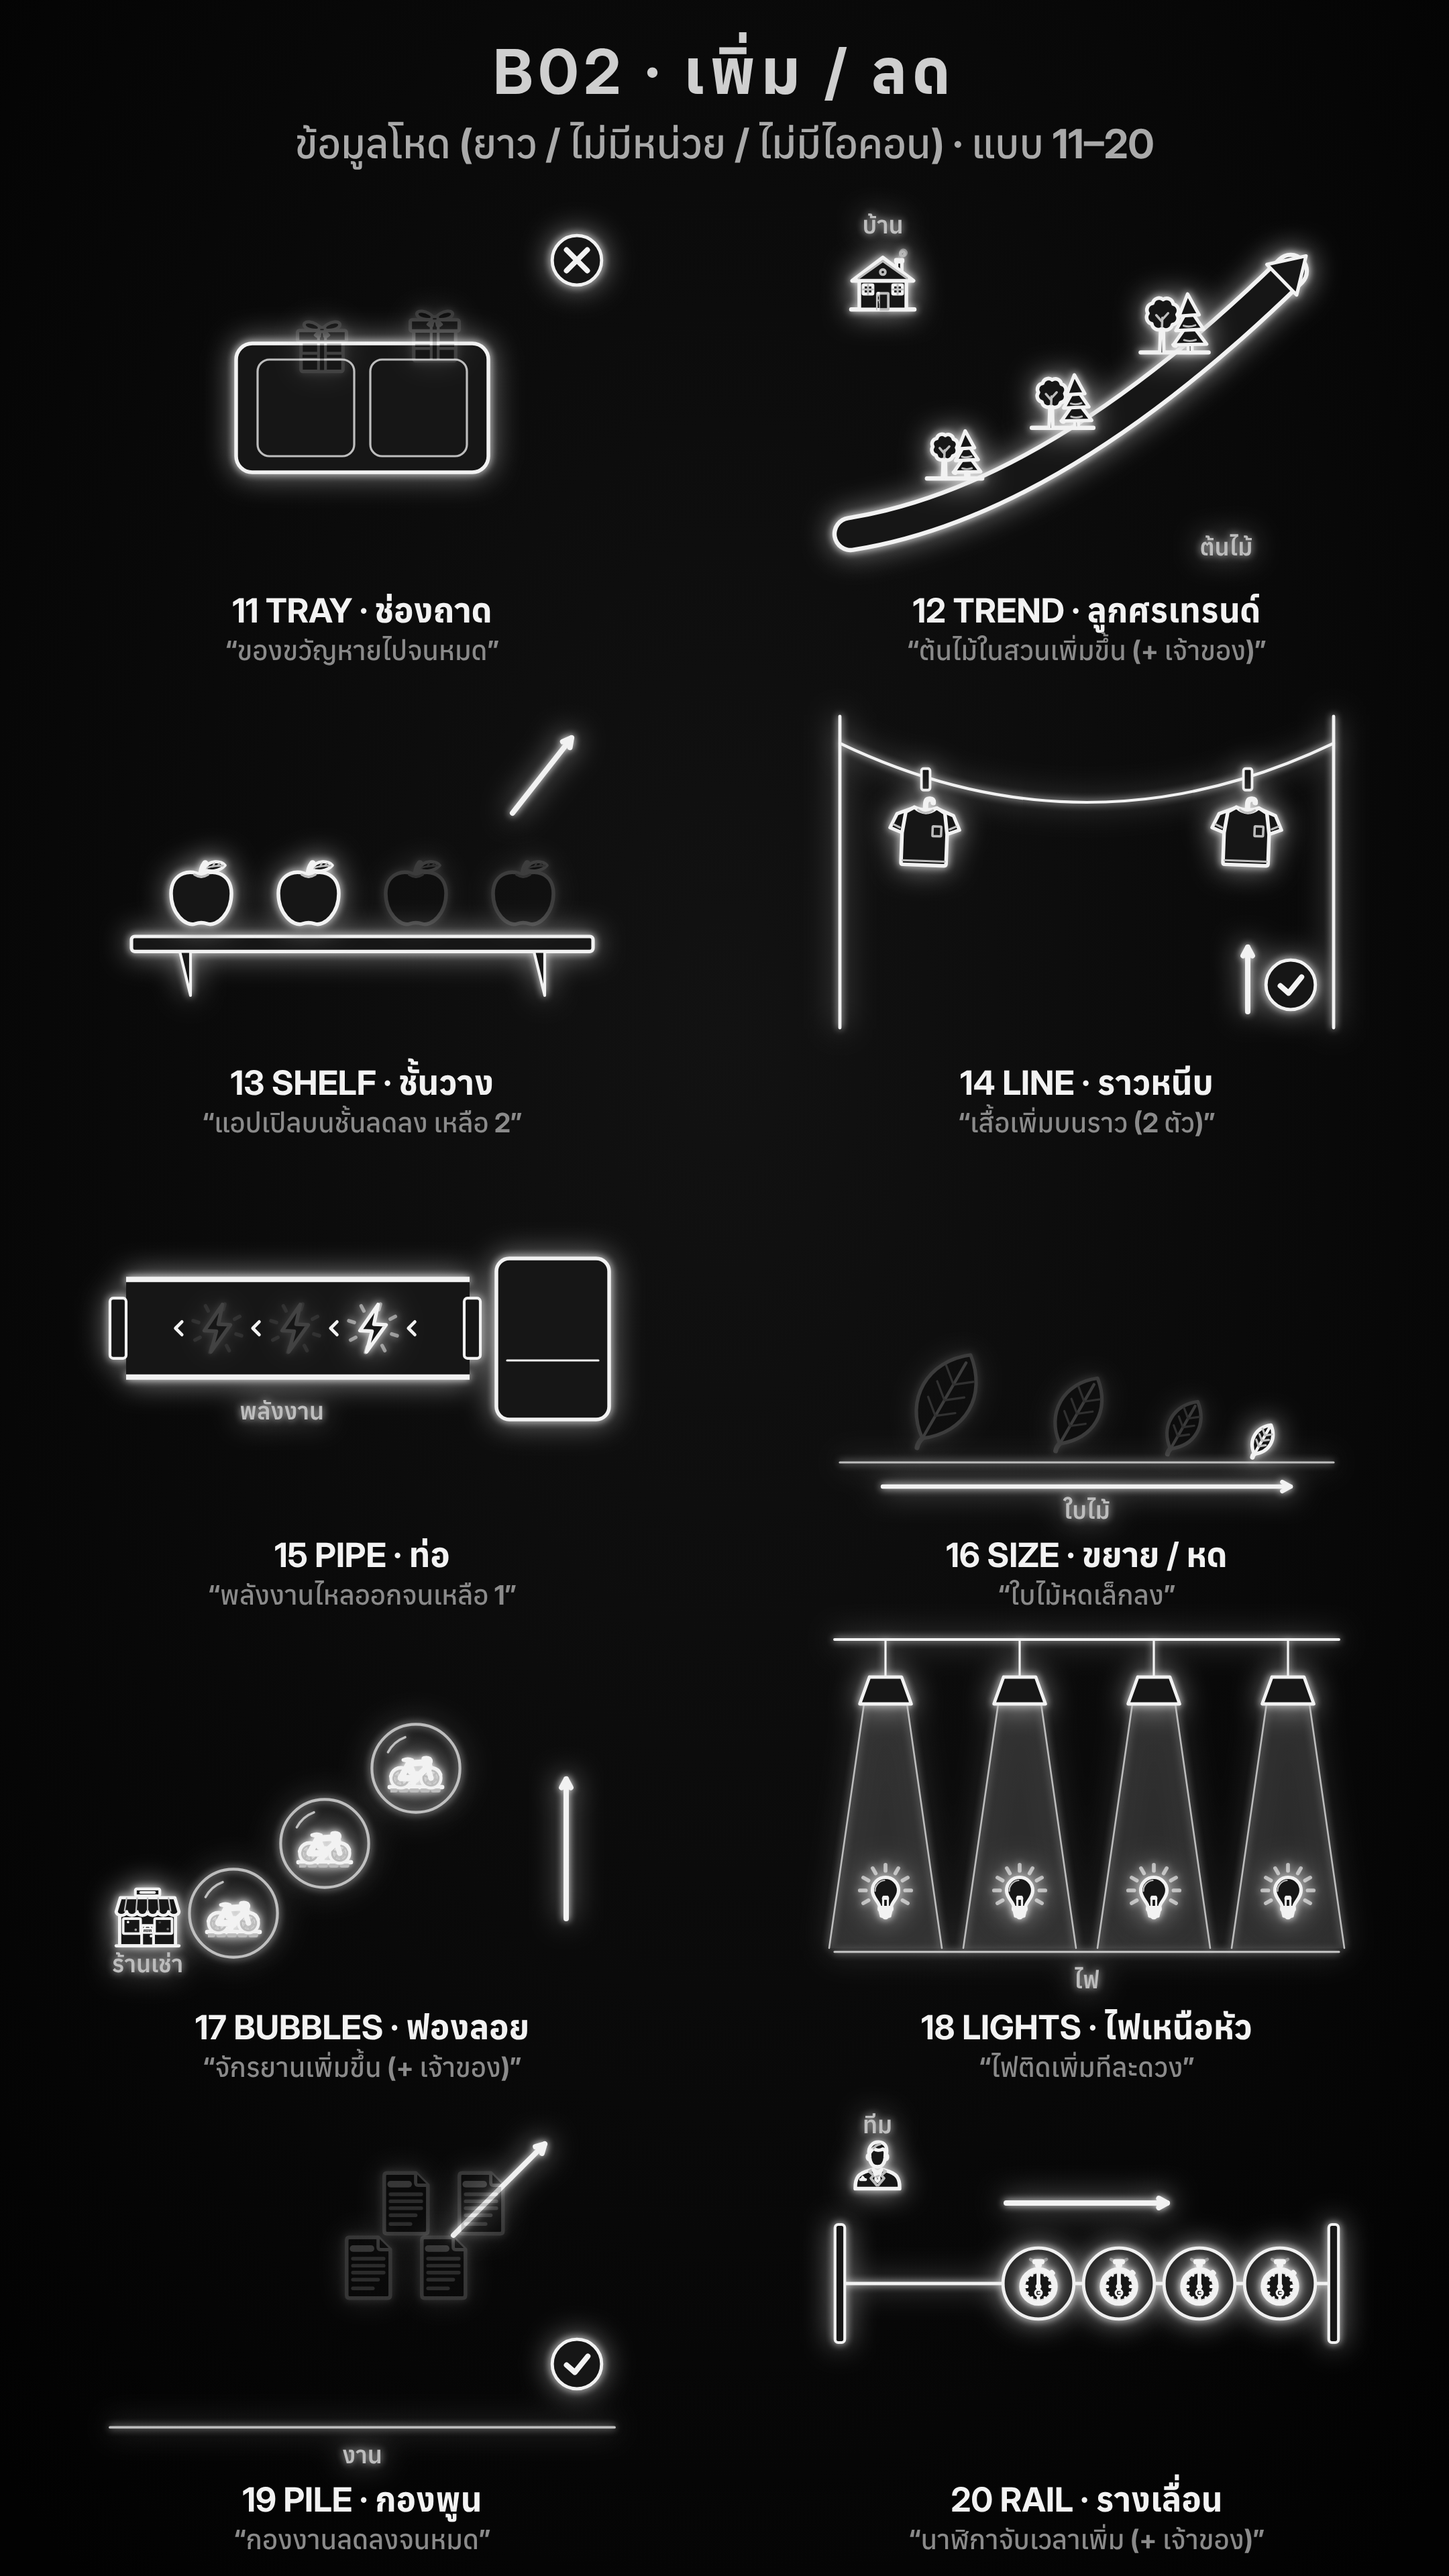
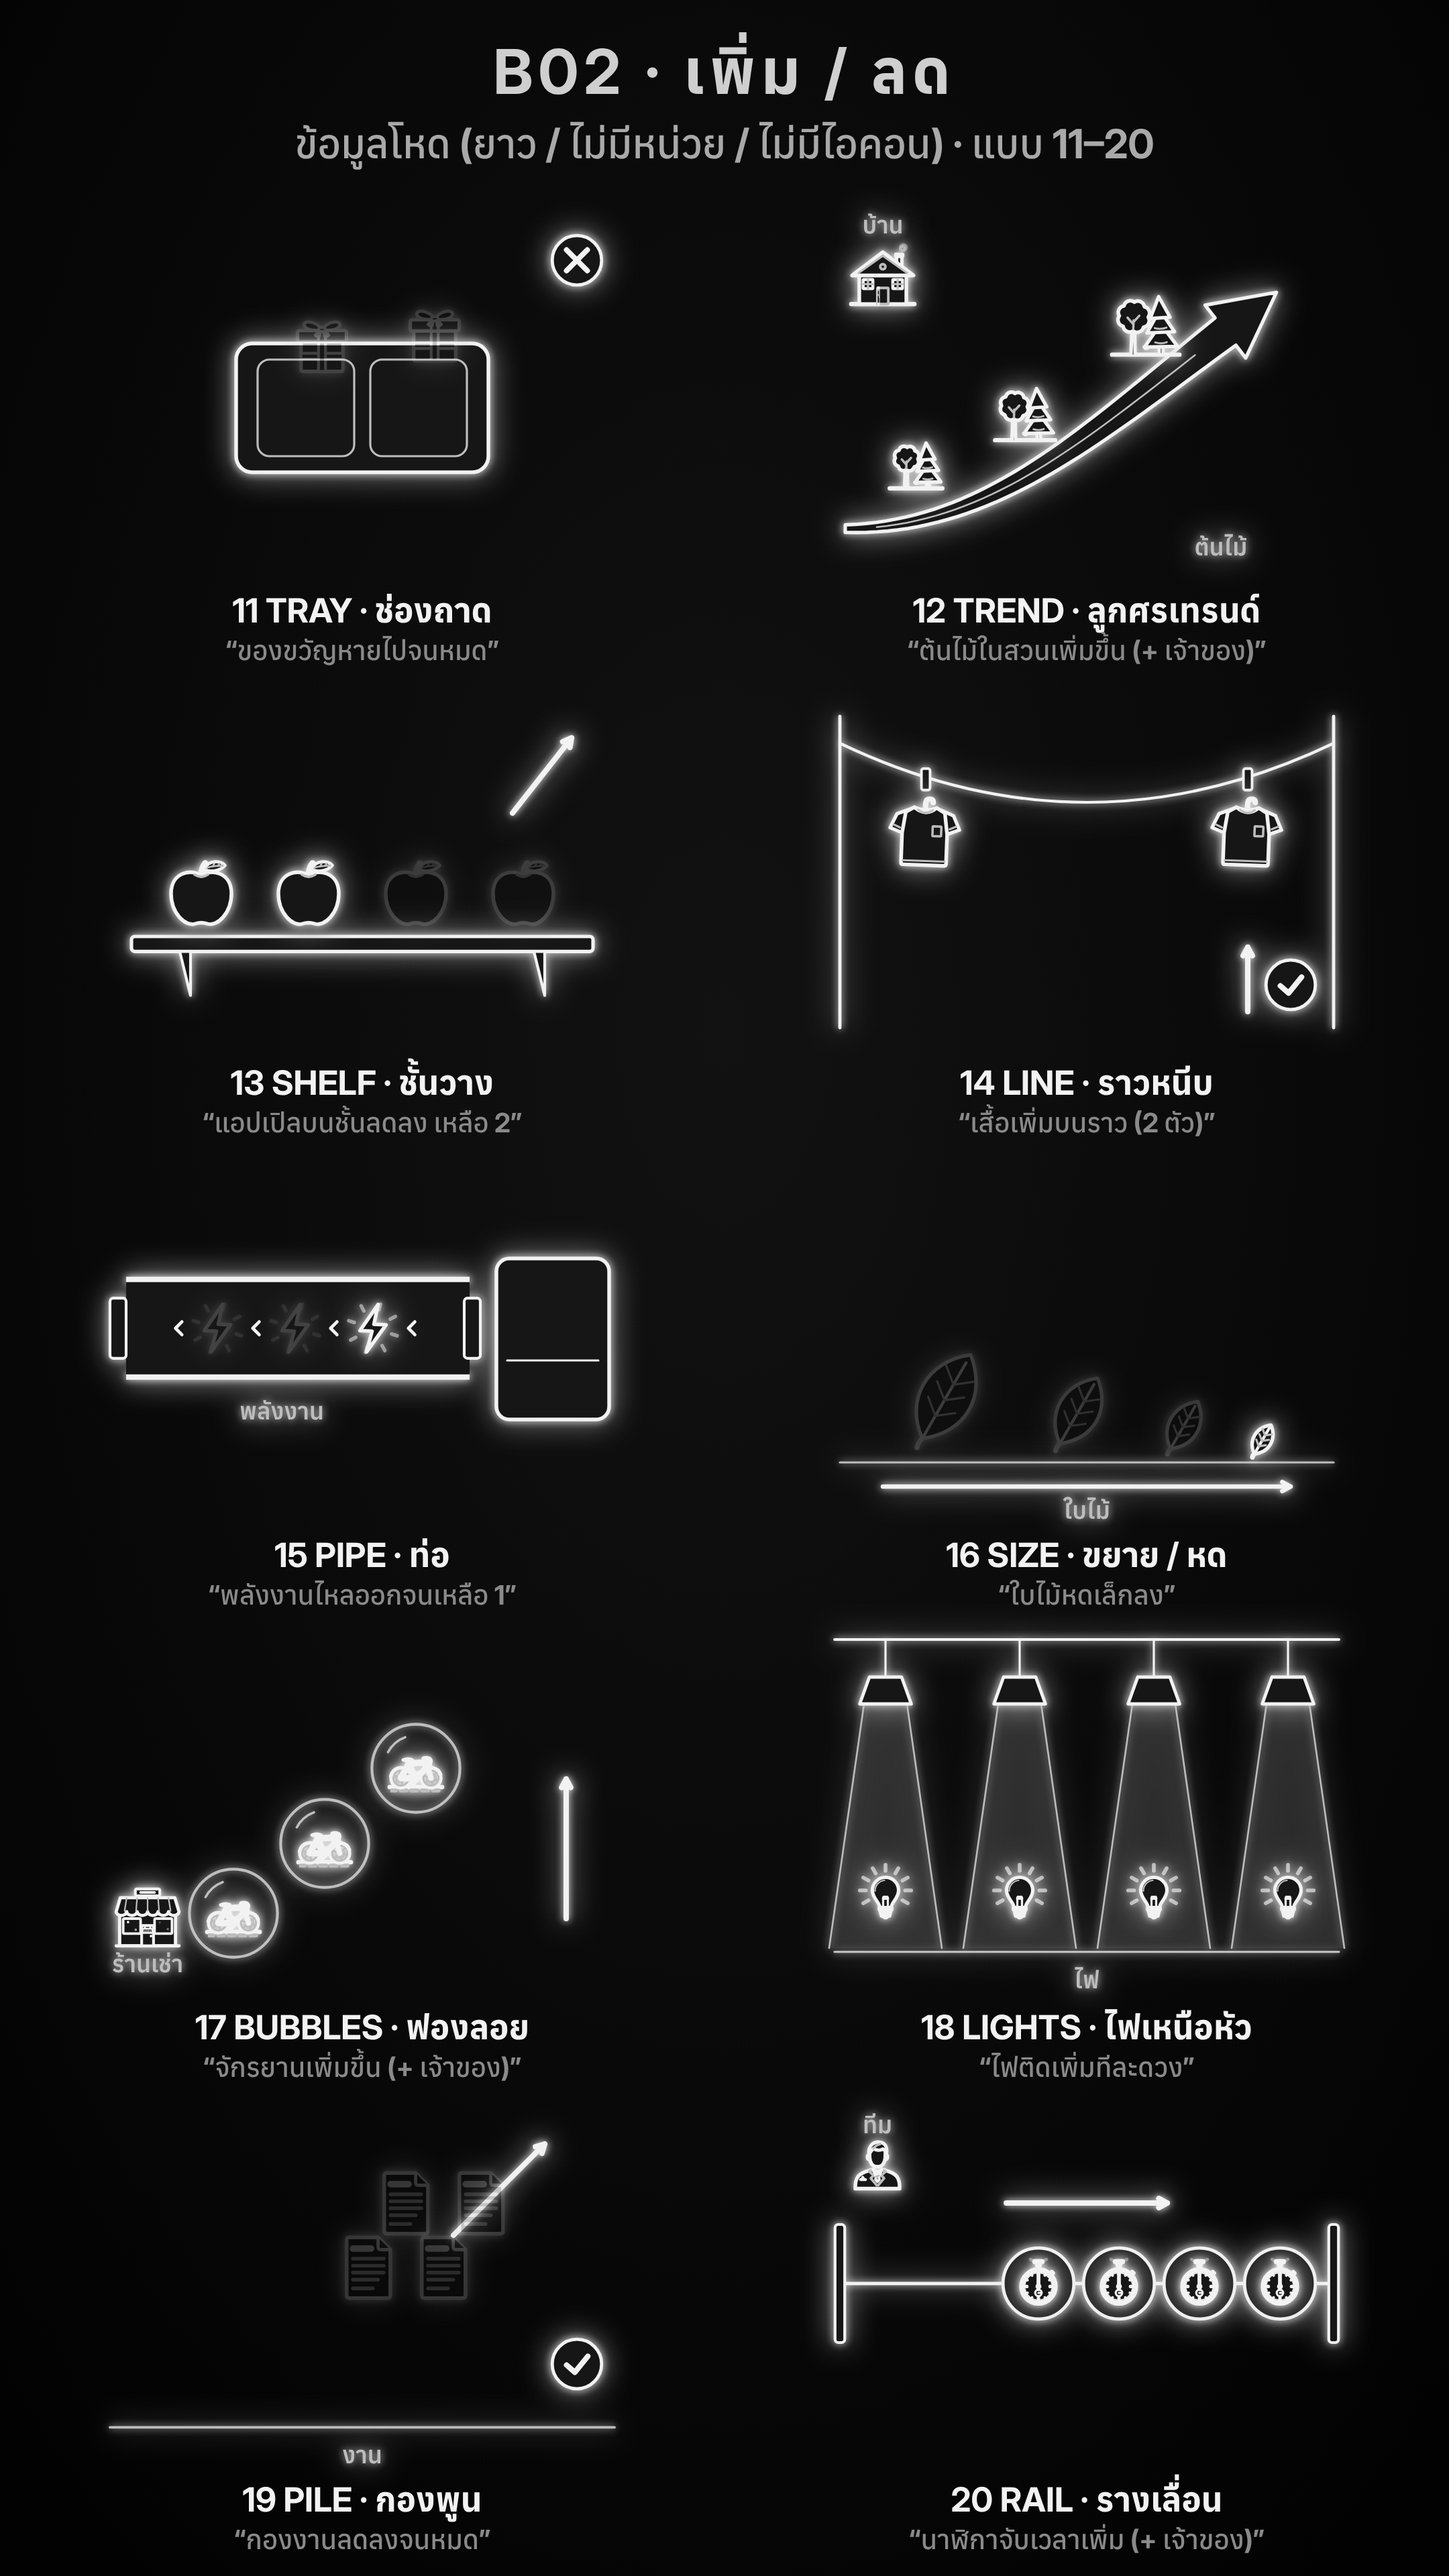
glow-line-motion: B02 design 12 — tapered S-curve trend arrow
Claude-Session: https://claude.ai/code/session_01S8EfU7fAEGeBWyNc1CqSTP

Changed region(s): [[0.5583, 0.0938, 0.9306, 0.2188], [0.5894, 0.0938, 0.6514, 0.125], [0.8375, 0.1875, 0.8685, 0.2188]]

diff --git a/.claude/skills/glow-line-motion/examples/b02/b02.js b/.claude/skills/glow-line-motion/examples/b02/b02.js
@@ -223,21 +223,27 @@
     center(d, -390, 25, 130, c);
   });
 
-  /* 12 ── TREND: a big curved arrow climbs (or falls); the copies ride along it */
+  /* 12 ── TREND: a big tapered arrow sweeps up (or down) in a soft S — thin at its tail, wide at its head; the copies ride along it */
   variant('trend', 'ลูกศรเทรนด์', (d, c) => {
-    const n = N(d), up = d.dir === 'up';
-    const P0 = up ? [-440, 260] : [-440, -240], P1 = [-60, up ? 200 : -180], P2 = up ? [380, -230] : [380, 240];
-    const B = t => [(1 - t) ** 2 * P0[0] + 2 * (1 - t) * t * P1[0] + t * t * P2[0], (1 - t) ** 2 * P0[1] + 2 * (1 - t) * t * P1[1] + t * t * P2[1]];
+    const n = N(d), up = d.dir === 'up', fy = y => up ? y : -y + 20;
+    const P = [[-450, fy(250)], [-140, fy(250)], [60, fy(20)], [390, fy(-215)]];
+    const B = t => { const u = 1 - t; return [0, 1].map(k => u * u * u * P[0][k] + 3 * u * u * t * P[1][k] + 3 * u * t * t * P[2][k] + t * t * t * P[3][k]); };
+    const D = t => { const u = 1 - t; return [0, 1].map(k => 3 * u * u * (P[1][k] - P[0][k]) + 6 * u * t * (P[2][k] - P[1][k]) + 3 * t * t * (P[3][k] - P[2][k])); };
     art(c, p => {
-      const D = `M ${P0[0]} ${P0[1]} Q ${P1[0]} ${P1[1]} ${P2[0]} ${P2[1]}`;
-      p.path(D, { sw: 34 }); p.path(D, { sw: 26, stroke: C.fill });
-      const a = Math.atan2(P2[1] - P1[1], P2[0] - P1[0]), hx = P2[0] + 40 * Math.cos(a), hy = P2[1] + 40 * Math.sin(a);
-      p.shape([[f1(hx), f1(hy)], [f1(P2[0] + 46 * Math.cos(a + 2.1)), f1(P2[1] + 46 * Math.sin(a + 2.1))], [f1(P2[0] + 46 * Math.cos(a - 2.1)), f1(P2[1] + 46 * Math.sin(a - 2.1))]], F(3.2));
-      labels(p, d, up ? 260 : -260, up ? 300 : 300, up ? -380 : 380, -300);
-      endSym(p, d, up ? 420 : 420, up ? 80 : -120, c);
+      const tH = .86, L = [], R = [], M = [];
+      for (let k = 0; k <= 40; k++) { const t = tH * k / 40, [x, y] = B(t), [dx, dy] = D(t), l = Math.hypot(dx, dy), nx = -dy / l, ny = dx / l, w = 7 + 25 * (t / tH);
+        L.push([f1(x + nx * w), f1(y + ny * w)]); R.push([f1(x - nx * w), f1(y - ny * w)]); if (k > 2 && k < 38) M.push([f1(x), f1(y)]); }
+      const [hx, hy] = B(tH), [tx, ty] = D(tH), tl = Math.hypot(tx, ty), ux = tx / tl, uy = ty / tl, nx = -uy, ny = ux, hw = 62, hl = 120;
+      const tip = [f1(hx + ux * hl), f1(hy + uy * hl)];
+      p.shape([...L, [f1(hx + nx * hw), f1(hy + ny * hw)], tip, [f1(hx - nx * hw), f1(hy - ny * hw)], ...R.reverse()], F(3.2));
+      p.poly(M, { sw: 1.6, stroke: C.soft });
+      labels(p, d, up ? 250 : -250, 300, up ? -380 : 380, up ? -300 : 330);
+      endSym(p, d, up ? 420 : 420, up ? 60 : -60, c);
     });
-    for (let i = 0; i < n; i++) { const [x, y] = B((i + 1) / (n + 1)); item(d, i, x, y - 95, 105 + (up ? i * 12 : (n - 1 - i) * 12), c); }
-    center(d, up ? -380 : 380, up ? -210 : -210, 120, c);
+    for (let i = 0; i < n; i++) { const t = .18 + .58 * i / (n - 1), [x, y] = B(t), [dx, dy] = D(t), l = Math.hypot(dx, dy);
+      let nx = -dy / l, ny = dx / l; if (ny > 0) { nx = -nx; ny = -ny; }              // always ride on the upper side of the arrow
+      item(d, i, x + nx * 100, y + ny * 100, 100 + (up ? i * 14 : (n - 1 - i) * 14), c); }
+    center(d, up ? -380 : 380, up ? -220 : 250, 120, c);
   });
 
   /* 13 ── SHELF: copies stand on a wall shelf — a new one is set down (or the gaps show the ones taken) */

diff --git a/.claude/skills/glow-line-motion/HANDOFF.md b/.claude/skills/glow-line-motion/HANDOFF.md
@@ -61,6 +61,8 @@
 - 20 แบบ: row แถวเรียง · stack กองซ้อน · jar โหลแก้ว · flow ไหลเข้าศูนย์กลาง · conveyor สายพาน · stairs บันได · lift ลิฟต์ยก · scale ตาชั่งหน้าปัด ·
   magnet แม่เหล็ก · door ประตูเข้าออก · tray ช่องถาด · trend ลูกศรเทรนด์ · shelf ชั้นวาง · line ราวหนีบ · pipe ท่อ · size ขยาย/หด · bubbles ฟองลอย ·
   lights ไฟเหนือหัว · pile กองพูน · rail รางเลื่อน. (ไม่ใช้: เก้าอี้ — CutPack DECISIONS เคยลบ "เก้าอี้จอง"; ตะกร้า/รถเข็น — ผูกเรื่องช้อปปิ้ง.)
+- ผู้ใช้: **"ทำเส้นเทรนของอันที่ 12 ให้มันดีๆหน่อย"** → trend วาดใหม่: ลูกศรเรียวโค้ง S (cubic) เรียวที่หาง หนาที่หัว (polygon จาก offset ของเส้นโค้ง),
+  หัวลูกศรต่อตามทิศโค้ง, เส้นกลางบางสีเทาในตัว; ของลอยด้านบนเส้นเสมอ (ทั้งขึ้นและลง). ภาพ `b02-12-trend.png` (4 กรณี). รอผู้ใช้ตอบ.
 - ถัดไป: ผู้ใช้เลือก → แทนแบบที่ไม่ชอบด้วยตัวเลือก 3 ทาง (เหมือน B01) → ผ่านแล้วใส่ท่า (ของทยอยเข้า/ออกทีละชิ้น ชิ้นสุดท้ายตรงคำสำคัญ) ด้วยโครงเดียวกับ b01.js.
 
 ## ✅ ตัวปรับท่าขยับกลาง — ทำเสร็จแล้ว (2026-11-12) · ผู้ใช้ตอบ **"ผ่าน"**
